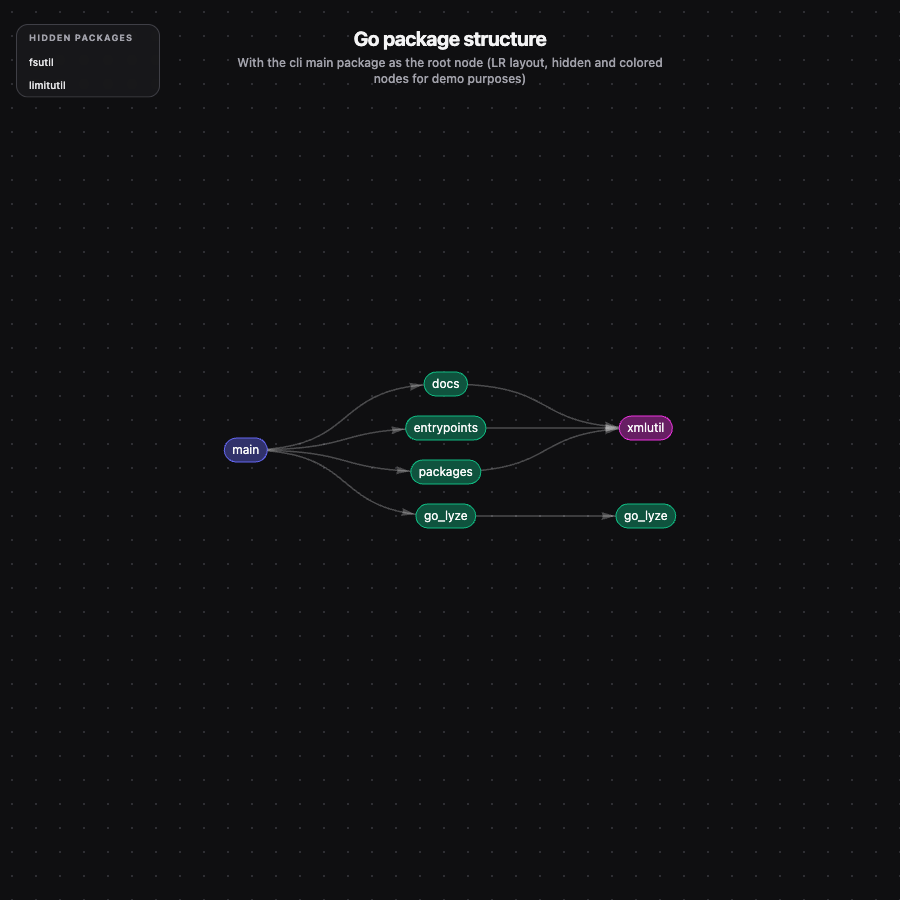
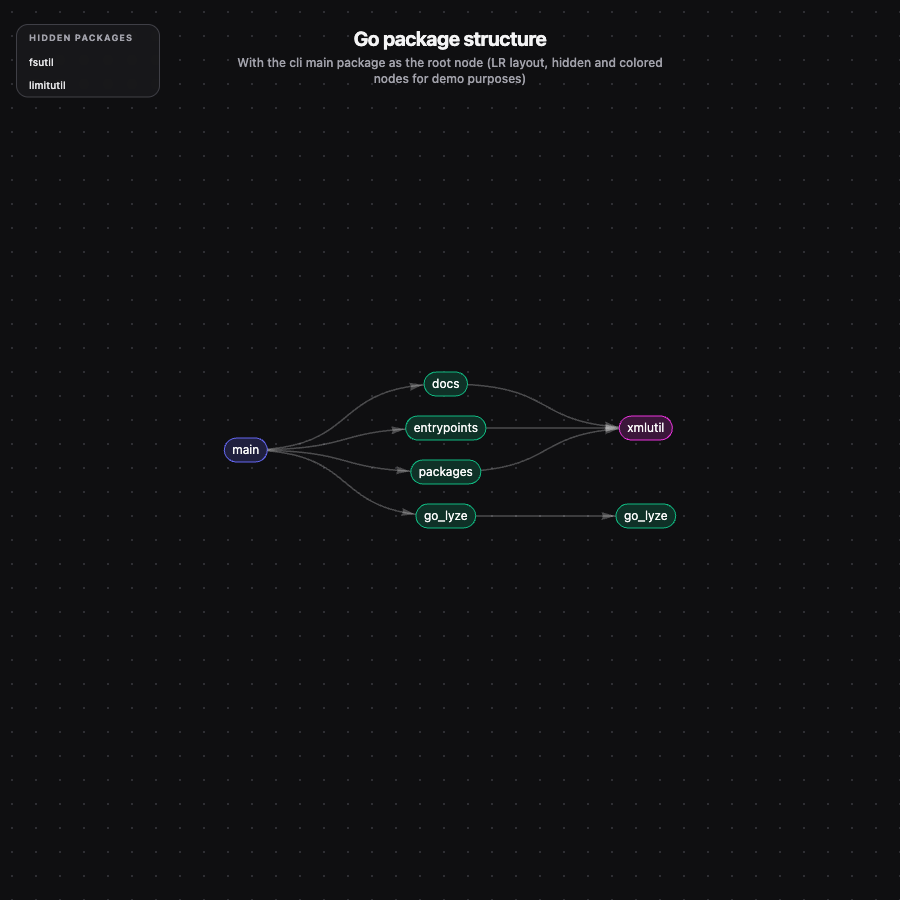
fix: hex color blend

diff --git a/commands/go_lyze/graph.html b/commands/go_lyze/graph.html
@@ -302,7 +302,7 @@
     }
 
     function statusBgColor(id, theme) {
-        return mixHex(nodeMainColor(id), theme.canvasBg, 0.6);
+        return mixHex(nodeMainColor(id), theme.canvasBg, 0.8);
     }
 
     // ─── Dark mode ────────────────────────────────────────────────────────────

diff --git a/demo/graph.dark.html b/demo/graph.dark.html
@@ -332,7 +332,7 @@
     }
 
     function statusBgColor(id, theme) {
-        return mixHex(nodeMainColor(id), theme.canvasBg, 0.6);
+        return mixHex(nodeMainColor(id), theme.canvasBg, 0.8);
     }
 
     // ─── Dark mode ────────────────────────────────────────────────────────────

diff --git a/demo/graph.html b/demo/graph.html
@@ -332,7 +332,7 @@
     }
 
     function statusBgColor(id, theme) {
-        return mixHex(nodeMainColor(id), theme.canvasBg, 0.6);
+        return mixHex(nodeMainColor(id), theme.canvasBg, 0.8);
     }
 
     // ─── Dark mode ────────────────────────────────────────────────────────────

diff --git a/cmd/hooksh/main.go b/cmd/hooksh/main.go
@@ -15,8 +15,9 @@ import (
 
 func main() {
 	cmd := &cli.Command{
-		Name:  "hooksh",
-		Usage: "LLM-ready code context generator",
+		Name:    "hooksh",
+		Usage:   "LLM-ready code context generator",
+		Version: "v0.0.4",
 		Commands: []*cli.Command{
 			{
 				Name:  "docs",
